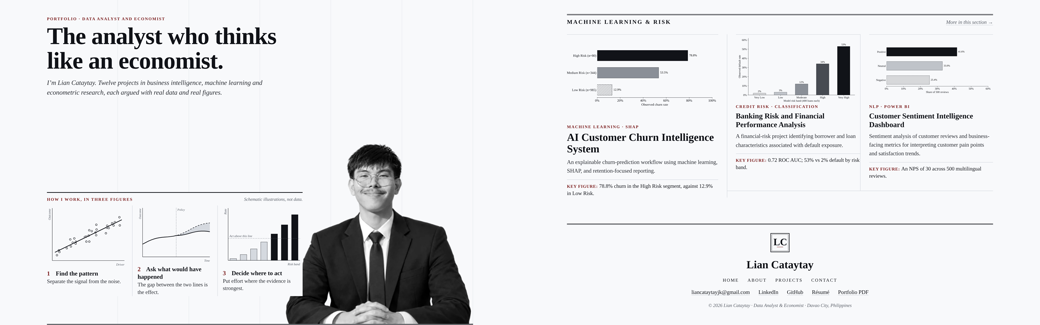
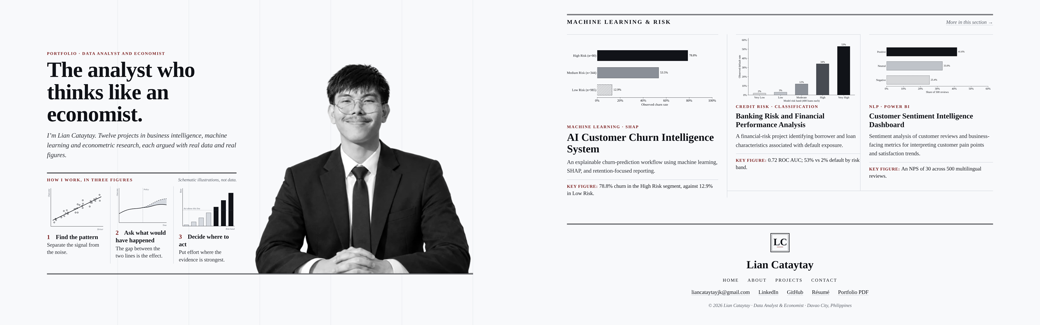
Hero: two-column grid so the portrait and figures never collide
The portrait now has its own grid column and fills the plate's height,
standing on the double rule; the three figures sit directly under the
deck instead of at the foot of the screen. Parallax on those two layers
is gone, so they cannot drift into each other. On tablets and phones the
plate is one column: headline, portrait, then the figures.

Claude-Session: https://claude.ai/code/session_01JYRCvEvee1Zgg8h4ZVXgSy

Changed region(s): [[0.0308, 0.1846, 0.4615, 1.0], [0.0308, 0.0308, 0.2769, 0.3077], [0.0308, 0.3385, 0.2462, 0.4923]]

diff --git a/assets/styles.css b/assets/styles.css
@@ -1200,12 +1200,15 @@ figcaption {
   position: relative;
 }
 
+/* The stage fills the screen and centres one framed plate in it. */
 .plate-stage {
+  display: grid;
+  align-content: center;
   height: 100vh;
   height: 100svh;
   min-height: 620px;
+  padding: clamp(0.75rem, 3vh, 2rem) 0;
   overflow: clip;
-  border-bottom: 3px double var(--ink);
 }
 
 /* Atmosphere: the page's six-column grid, barely moving. */
@@ -1217,18 +1220,27 @@ figcaption {
   pointer-events: none;
 }
 
-/* Left column: type at the top, the figure strip at the foot. Right column: the portrait. */
+/* Two columns. Left: kicker, headline, deck, and directly under them the three
+   figures, centred as one block. Right: the portrait, standing on the plate's
+   double rule. Nothing overlaps; each element owns its cell. */
+.plate-frame {
+  position: relative;
+  z-index: 1;
+  display: grid;
+  grid-template-columns: minmax(0, 1fr) minmax(0, 1.15fr);
+  grid-template-rows: 1fr auto auto 1fr;
+  column-gap: clamp(1.5rem, 3.5vw, 3.5rem);
+  border-bottom: 3px double var(--ink);
+}
+
 .plate-copy {
-  position: absolute;
-  top: clamp(1.5rem, 5vh, 3rem);
-  left: 0;
-  z-index: 3;
-  width: 56%;
+  grid-column: 1;
+  grid-row: 2;
 }
 
 .plate-headline {
   margin-top: 4px;
-  font-size: clamp(2.4rem, 4.6vw, 4.4rem);
+  font-size: clamp(2.4rem, 4.2vw, 4rem);
   line-height: 1.02;
   letter-spacing: -0.015em;
 }
@@ -1243,29 +1255,27 @@ figcaption {
 }
 
 .plate-subject {
-  position: absolute;
-  right: 0;
-  bottom: 0;
-  z-index: 2;
-  width: 44%;
-  max-width: 600px;
+  grid-column: 2;
+  grid-row: 1 / -1;
+  min-height: 0;
+  padding-top: clamp(0.5rem, 2vh, 1.5rem);
 }
 
+/* As large as the cell allows, never stretched, feet (hands) on the rule. */
 .plate-subject img {
+  display: block;
   width: 100%;
-  height: auto;
+  height: 100%;
   max-width: none;
+  object-fit: contain;
+  object-position: 50% 100%;
 }
 
 .plate-steps {
-  position: absolute;
-  bottom: calc(clamp(1rem, 3vh, 2rem) + 50px);
-  left: 0;
-  z-index: 4;
-  width: 60%;
-  margin: 0;
+  grid-column: 1;
+  grid-row: 3;
+  margin: clamp(1.25rem, 4vh, 2.5rem) 0 clamp(1rem, 3vh, 2rem);
   padding: 10px 0 0;
-  background: var(--paper);
   border-top: 2px solid var(--ink);
 }
 
@@ -1358,34 +1368,33 @@ figcaption {
 .plate--static [data-sc-cue] { opacity: 1 !important; transform: none !important; }
 
 /* Short laptop screens. */
-@media (min-width: 641px) and (max-height: 820px) {
-  .plate-headline { font-size: clamp(2.2rem, 4vw, 3.6rem); }
-  .plate-subject { width: 38%; }
+@media (min-width: 981px) and (max-height: 820px) {
+  .plate-headline { font-size: clamp(2.2rem, 3.6vw, 3.3rem); }
+  .plate-deck { font-size: 1.05rem; }
   .step-text { display: none; }
 }
 
+/* Tablet and phone: one column. Headline, then the portrait standing on the
+   figure strip's rule, then the three figures. */
 @media (max-width: 980px) {
-  .plate-copy { width: 100%; }
-  .plate-headline { font-size: clamp(2.2rem, 6.4vw, 3.4rem); }
-  .plate-steps { right: 0; width: 100%; }
-  .plate-subject { right: 0; bottom: auto; top: 34%; width: 46%; }
+  .plate-frame {
+    grid-template-columns: minmax(0, 1fr);
+    grid-template-rows: auto minmax(0, 1fr) auto;
+    height: 100%;
+    border-bottom: 0;
+  }
+  .plate-copy { grid-row: 1; }
+  .plate-headline { font-size: clamp(2.1rem, 6.4vw, 3.4rem); }
+  .plate-subject { grid-column: 1; grid-row: 2; padding-top: 12px; }
+  .plate-steps { grid-row: 3; margin: 0; }
 }
 
-/* Phone: headline, then the portrait, then the three figures in a row. */
 @media (max-width: 640px) {
-  .plate-stage { min-height: 600px; }
-  .plate-copy { top: 1rem; }
+  .plate-stage { min-height: 600px; padding: 0.75rem 0 1rem; }
   .plate-headline { font-size: 2.15rem; }
   .plate-deck { font-size: 1rem; }
-  .plate-subject { top: auto; right: 0; bottom: min(270px, 34svh); left: 0; width: 76%; margin: 0 auto; }
-  .plate-steps { bottom: calc(0.8rem + 50px); padding-top: 8px; }
   .steps-head { flex-direction: column; gap: 0; }
   .step { padding: 0 6px; }
   .step-title { font-size: 0.8rem; }
   .step-text { display: none; }
-}
-
-/* Short phones: a smaller portrait keeps the deck clear. */
-@media (max-width: 640px) and (max-height: 740px) {
-  .plate-subject { width: 56%; }
 }

diff --git a/index.html b/index.html
@@ -79,15 +79,16 @@
       <section class="plate" data-sc-act="pin" data-sc-span="2.6" aria-labelledby="plate-title">
         <div class="plate-stage" data-sc-stage>
           <div class="plate-columns" data-sc-parallax="0.3" aria-hidden="true"></div>
+          <div class="plate-frame">
           <div class="plate-copy" data-sc-cue="0 1 0 0">
             <p class="kicker">Portfolio &middot; Data analyst and economist</p>
             <h1 id="plate-title" class="plate-headline">The analyst who thinks like an economist.</h1>
             <p class="plate-deck">I&rsquo;m Lian Cataytay. Twelve projects in business intelligence, machine learning and econometric research, each argued with real data and real figures.</p>
           </div>
-          <div class="plate-subject" data-sc-parallax="-0.5">
+          <div class="plate-subject">
             <img src="assets/hero/portrait.webp" width="594" height="572" alt="Lian Cataytay, in a dark suit and tie, smiling with hands clasped">
           </div>
-          <figure class="plate-steps" data-sc-parallax="-1.0">
+          <figure class="plate-steps">
             <figcaption class="steps-head"><span class="kicker">How I work, in three figures</span><span class="steps-note">Schematic illustrations, not data.</span></figcaption>
             <ol class="steps">
               <li class="step" data-step>
@@ -107,6 +108,7 @@
               </li>
             </ol>
           </figure>
+          </div>
         </div>
       </section>
 

diff --git a/_scrollcraft/builds/hero/PLAN.md b/_scrollcraft/builds/hero/PLAN.md
@@ -25,13 +25,14 @@ a hand-over into ordinary document flow rather than a close or a CTA.
 
 | Plane | Content | Motion |
 |---|---|---|
-| Atmosphere | Column hairlines of the page grid | `data-sc-parallax="-1.2"`, recedes |
-| Type | Kicker, `<h1>`, deck | `data-sc-parallax="0.3"`, greets with a cue |
-| Subject | Portrait cutout (alpha) in the right column | `data-sc-parallax="-0.5"` |
-| Foreground | "How I work, in three figures": one strip of three equal panels (pattern, counterfactual, decision), geometry from `assets/hero/story.json` | `data-sc-parallax="-1.0"`, rises into place; each panel draws with a clip-rect pen |
+| Atmosphere | Column hairlines of the page grid | `data-sc-parallax="0.3"`, a slow drift |
+| Type | Kicker, `<h1>`, deck | Still; greets with a cue |
+| Subject | Portrait cutout (alpha) in its own right-hand grid column, standing on the plate's double rule | Still; it is the anchor |
+| Foreground | "How I work, in three figures": one strip of three equal panels (pattern, counterfactual, decision), geometry from `assets/hero/story.json` | Set directly under the deck in the left column; each panel draws with a clip-rect pen |
 
-Phone: type on top, portrait centred, the strip full width below with titles
-only.
+Layout is a two-column grid (left: type, then the strip; right: portrait), so
+no layer can overlap another. Phone and tablet: one column, headline, then the
+portrait standing on the strip's top rule, then the strip with titles only.
 
 Reduced motion: no pin and no added scroll length; every plane in its final
 position, all three figures complete.
@@ -45,7 +46,7 @@ the act; there is no second act to alternate with.
 | Beat | Device | Why this one |
 |---|---|---|
 | Recognition | `pin` + greet cues | The plate holds still; the headline is on screen on landing |
-| Curiosity | `parallax`, figure 1 draws | The strip rises; a scatter finds its line |
+| Curiosity | figure 1 draws | A scatter finds its line |
 | Conviction (peak) | signature: figures 2 and 3 draw from `--sc-p` | The method tells its own story |
 | Settled | final cue holds; plate rests on a double rule | Resolves into the document instead of fading |
 

diff --git a/_scrollcraft/builds/hero/BRIEF.md b/_scrollcraft/builds/hero/BRIEF.md
@@ -95,3 +95,10 @@ greys, and one oxblood accent.
 
 Done: new headshot (final: a pre-cut photo with hands clasped, desk edge trimmed); the clippings and CARP chart replaced by three schematic
 method figures of equal size, labelled "Schematic illustrations, not data."
+
+Second revision (owner feedback): "the headshot overlaps the rightmost figure",
+"the headshot is too small and there's a lot of overhead space", "there's a
+huge negative space between the three figures and the headline, please pivot".
+Done: the plate became a two-column grid. The figures sit directly under the
+deck, the portrait fills its own column at full height, and parallax on those
+two layers was removed so they cannot drift into each other.
